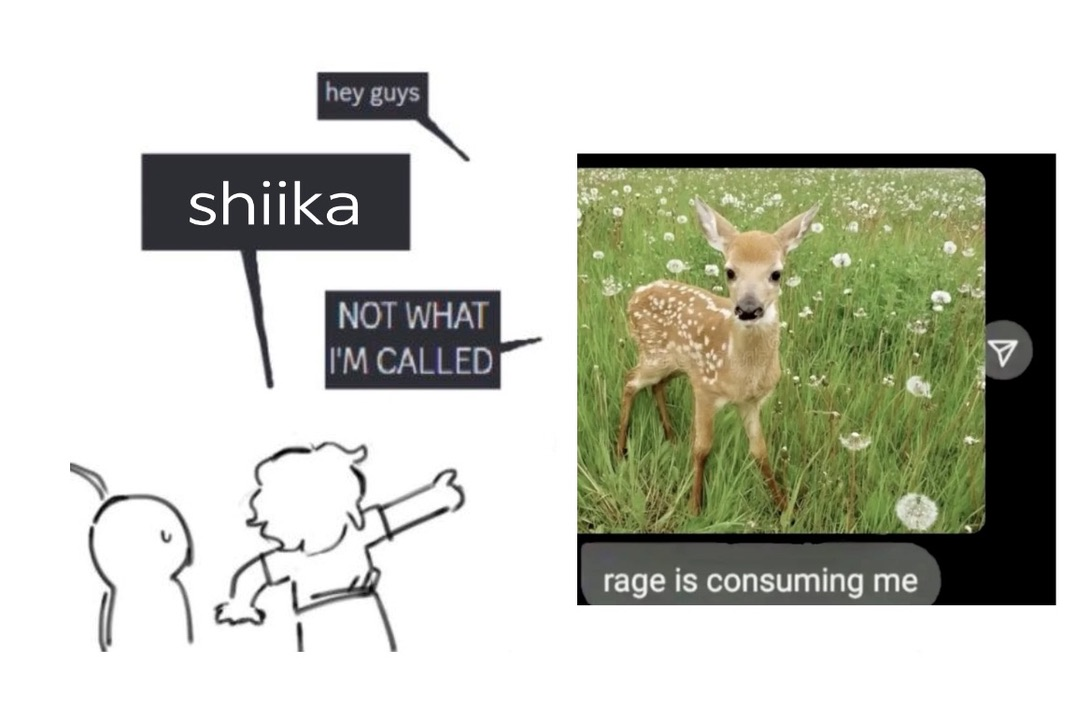
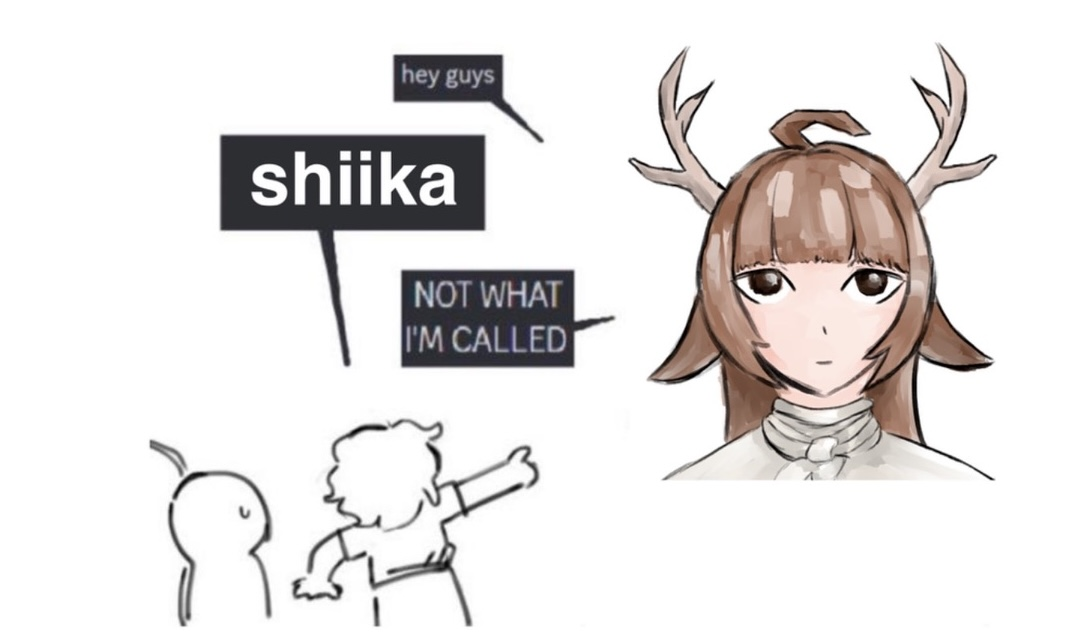
update image and work items

diff --git a/src/lib/constants.ts b/src/lib/constants.ts
@@ -19,7 +19,7 @@ export const WORK_ITEMS: WorkItem[] = [
     confirmed: true,
   },
   { name: "shiori novella (again!)", inProgress: true, confirmed: true },
-  { name: "oc design", inProgress: true, confirmed: true },
+  { name: "drawings for friends", inProgress: false, confirmed: true },
 
   { name: "hyakuto kyoko", inProgress: false, confirmed: false, candidate: true },
   { name: "cecilia immergreen", inProgress: false, confirmed: false, candidate: true },
@@ -27,7 +27,7 @@ export const WORK_ITEMS: WorkItem[] = [
     name: "more hololive related stuff",
     inProgress: false,
     confirmed: false,
-    extraneousText: "ongoing"
+    extraneousText: "ongoing",
   },
 ]
 

diff --git a/src/lib/components/FAQ.svelte b/src/lib/components/FAQ.svelte
@@ -50,10 +50,16 @@
     </div>
     <div class="w-1/2">
       <img alt="get my name right" src={getmynameright} title="get my name right" />
+      <p class="text-center text-lg font-bold">
+        (disclaimer: both spellings are fine it's just funny)
+      </p>
     </div>
   </div>
   <div class="flex flex-col md:hidden">
     {@render sections()}
     <img alt="get my name right" src={getmynameright} title="get my name right" />
+    <p class="text-center text-sm font-bold">
+      (disclaimer: both spellings are fine it's just funny)
+    </p>
   </div>
 </div>
